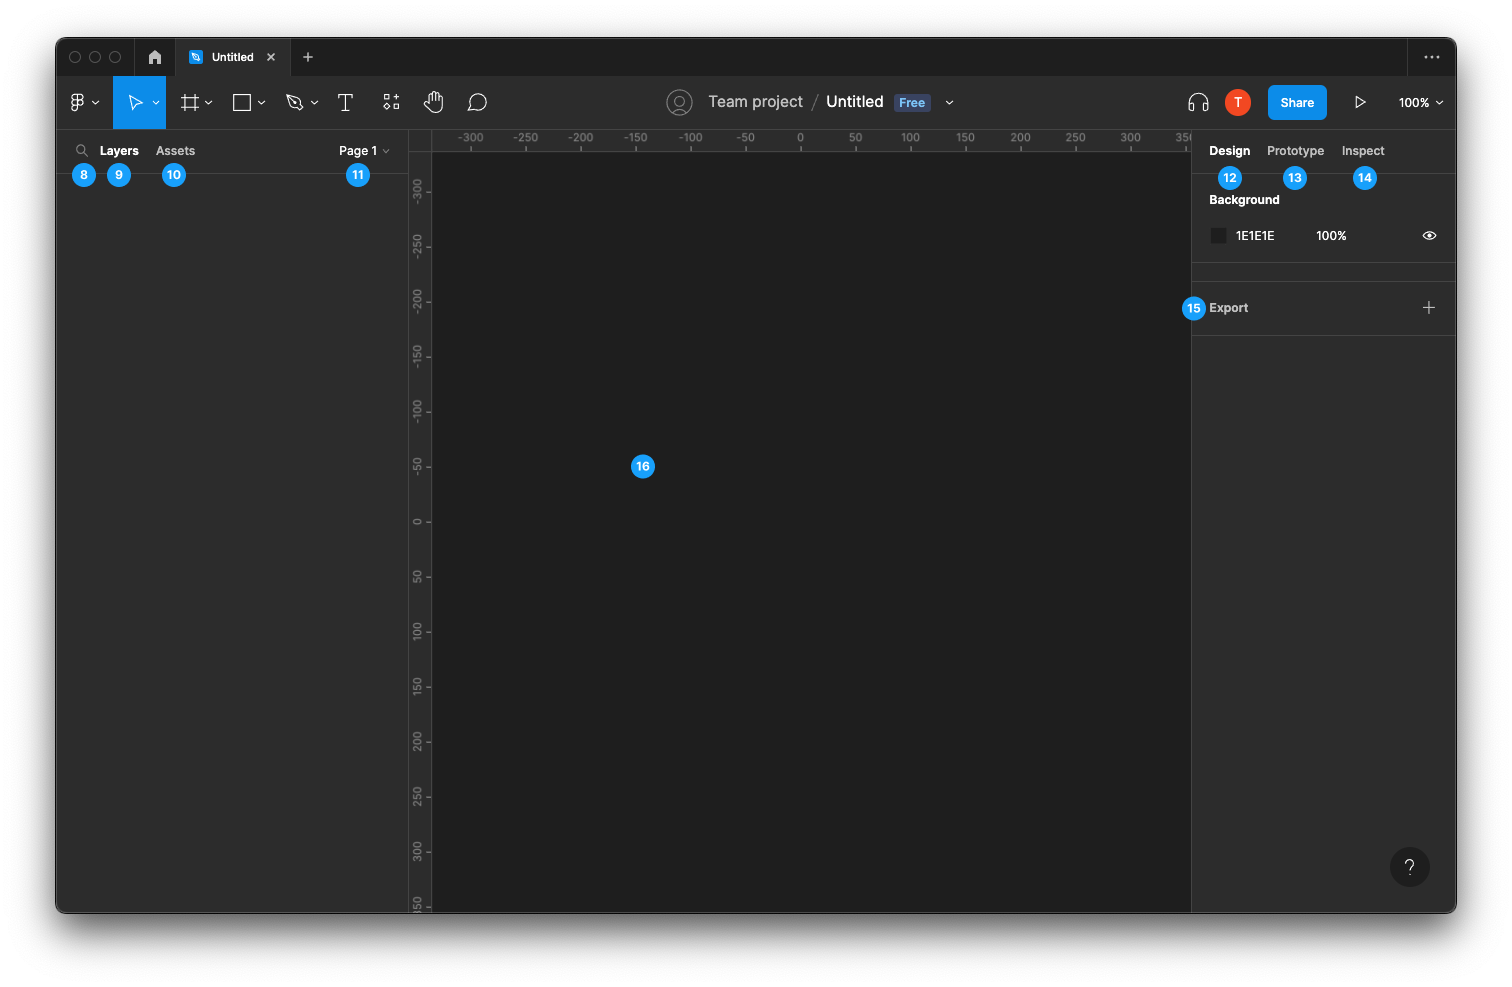
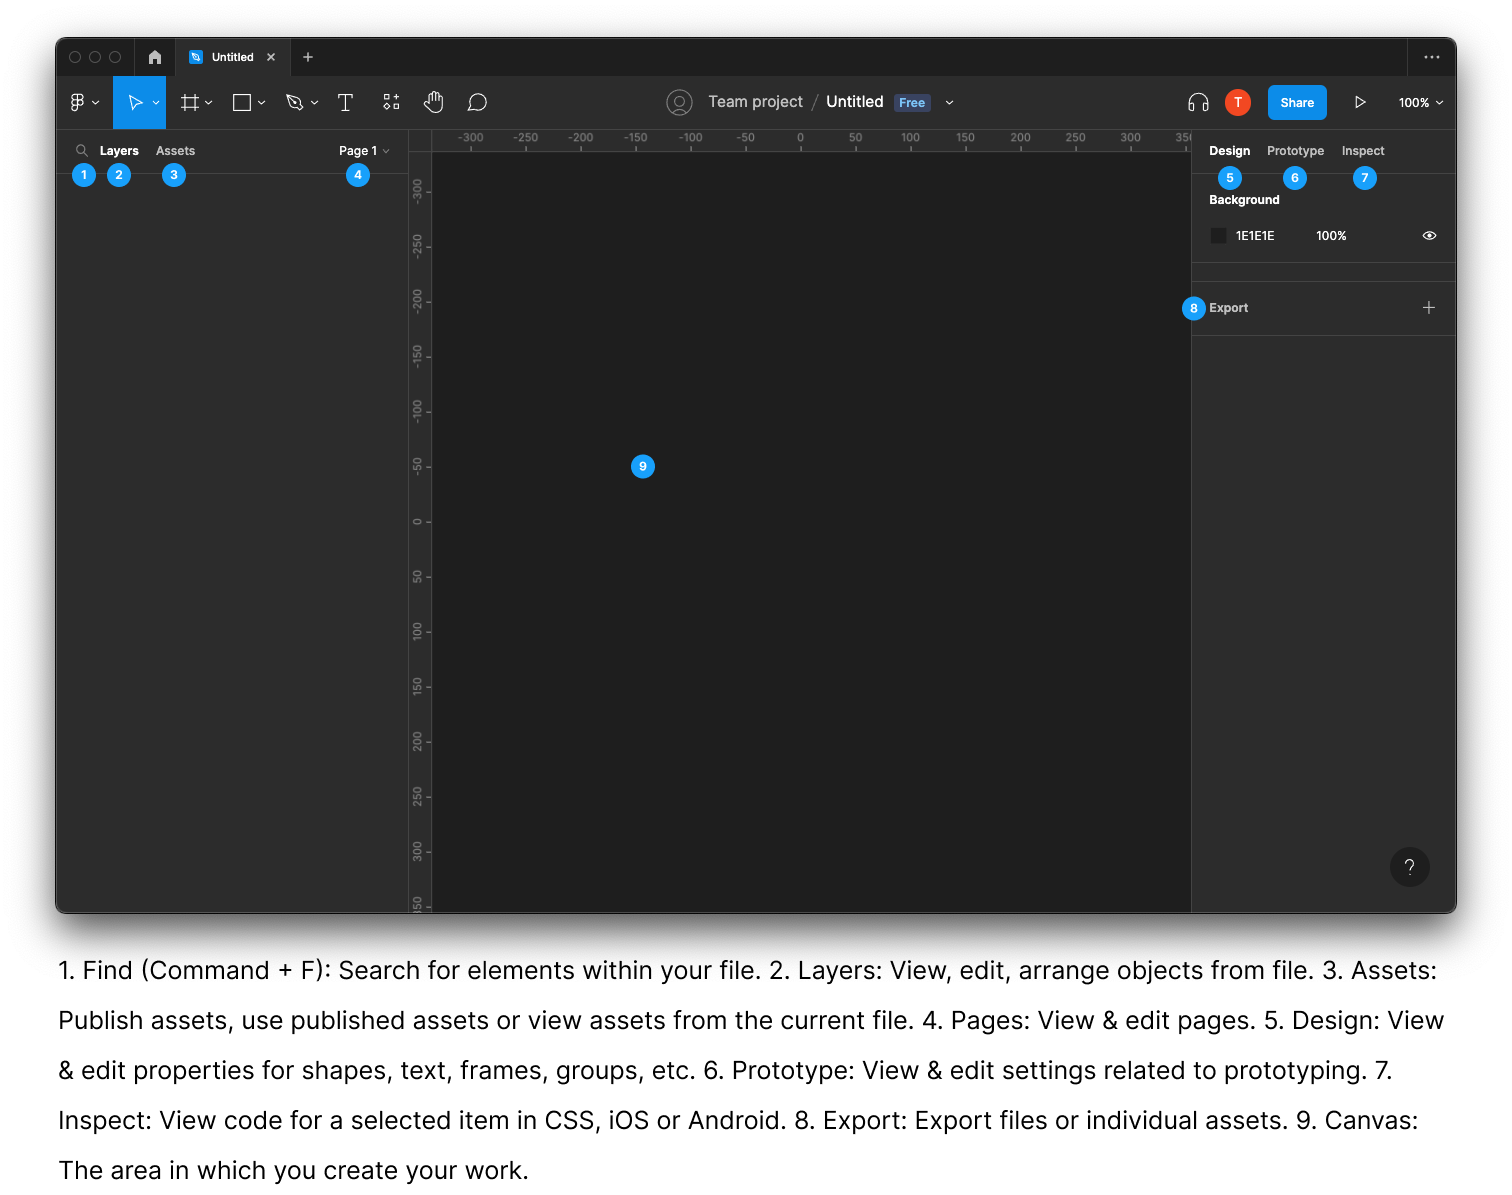
course update

diff --git a/docs/modules/week9.1/README.md b/docs/modules/week9.1/README.md
@@ -65,24 +65,11 @@ Every page has a canvas where all of your frames, groups, and layers live. The c
 
 ![Figma Homepage](./figma-home.png)
 
-(1. Home 2. Add Tab 3. Recently Closed Files 4. Main Menu 5. Search 6. Explore Community 7. Notifications 8. Settings 9. Recents 10. Drafts 11. Favorite Files 12. Teams 13. Projects 14. Create New Team)
-
 ### Project Management
 
 Every project you create has its own project page where you can access all the project's files.
 
 ![Figma Projects](./figma-project.png)
-
-1. Project Name
-2. Import: Import files between tools with a range of different file types into Figma.
-3. Share: Share files or projects with other users.
-4. Actions: Additional actions like creating a new file.
-5. New Design File
-6. New Figjam File
-7. Project Description
-8. Recent Contributors
-9. Team Overview
-10. Files: This is where all your files within this project can be found.
 
 **Project View**
 
@@ -168,16 +155,6 @@ The Resources modal allows you browse components from enabled libraries and brow
 
 ![Figma File Editor - Workspace](./figma-file.png)
 
-1. Find (Command + F): Search for elements within your file.
-2. Layers: View, edit, arrange objects from file.
-3. Assets: Publish assets, use published assets or view assets from the current file.
-4. Pages: View & edit pages.
-5. Design: View & edit properties for shapes, text, frames, groups, etc.
-6. Prototype: View & edit settings related to prototyping.
-7. Inspect: View code for a selected item in CSS, iOS or Android.
-8. Export: Export files or individual assets.
-9. Canvas: The area in which you create your work.
-
 ## Sharing
 
 ### Sharing Structure
@@ -187,12 +164,6 @@ The Resources modal allows you browse components from enabled libraries and brow
 ### How to share
 
 ![Figma Sharing](./figma-share.png)
-
-1. Email Input: Input the email address of the person you wish to share with.
-2. Permissions: Restrict permissions to "can view" or give permission to edit.
-3. Invite Button
-4. People Shared With: List of people who have access to this file or project.
-5. Copy Link: Invite users by sending them a link.
 
 ## Exporting Files
 
@@ -206,9 +177,6 @@ You can export the following formats:
 - PDF
 
 ![Figma Exporting](./figma-export.png)
-
-1. Export All Frames
-2. Export All Frames to PDF
 
 ### Export Individual Elements
 
